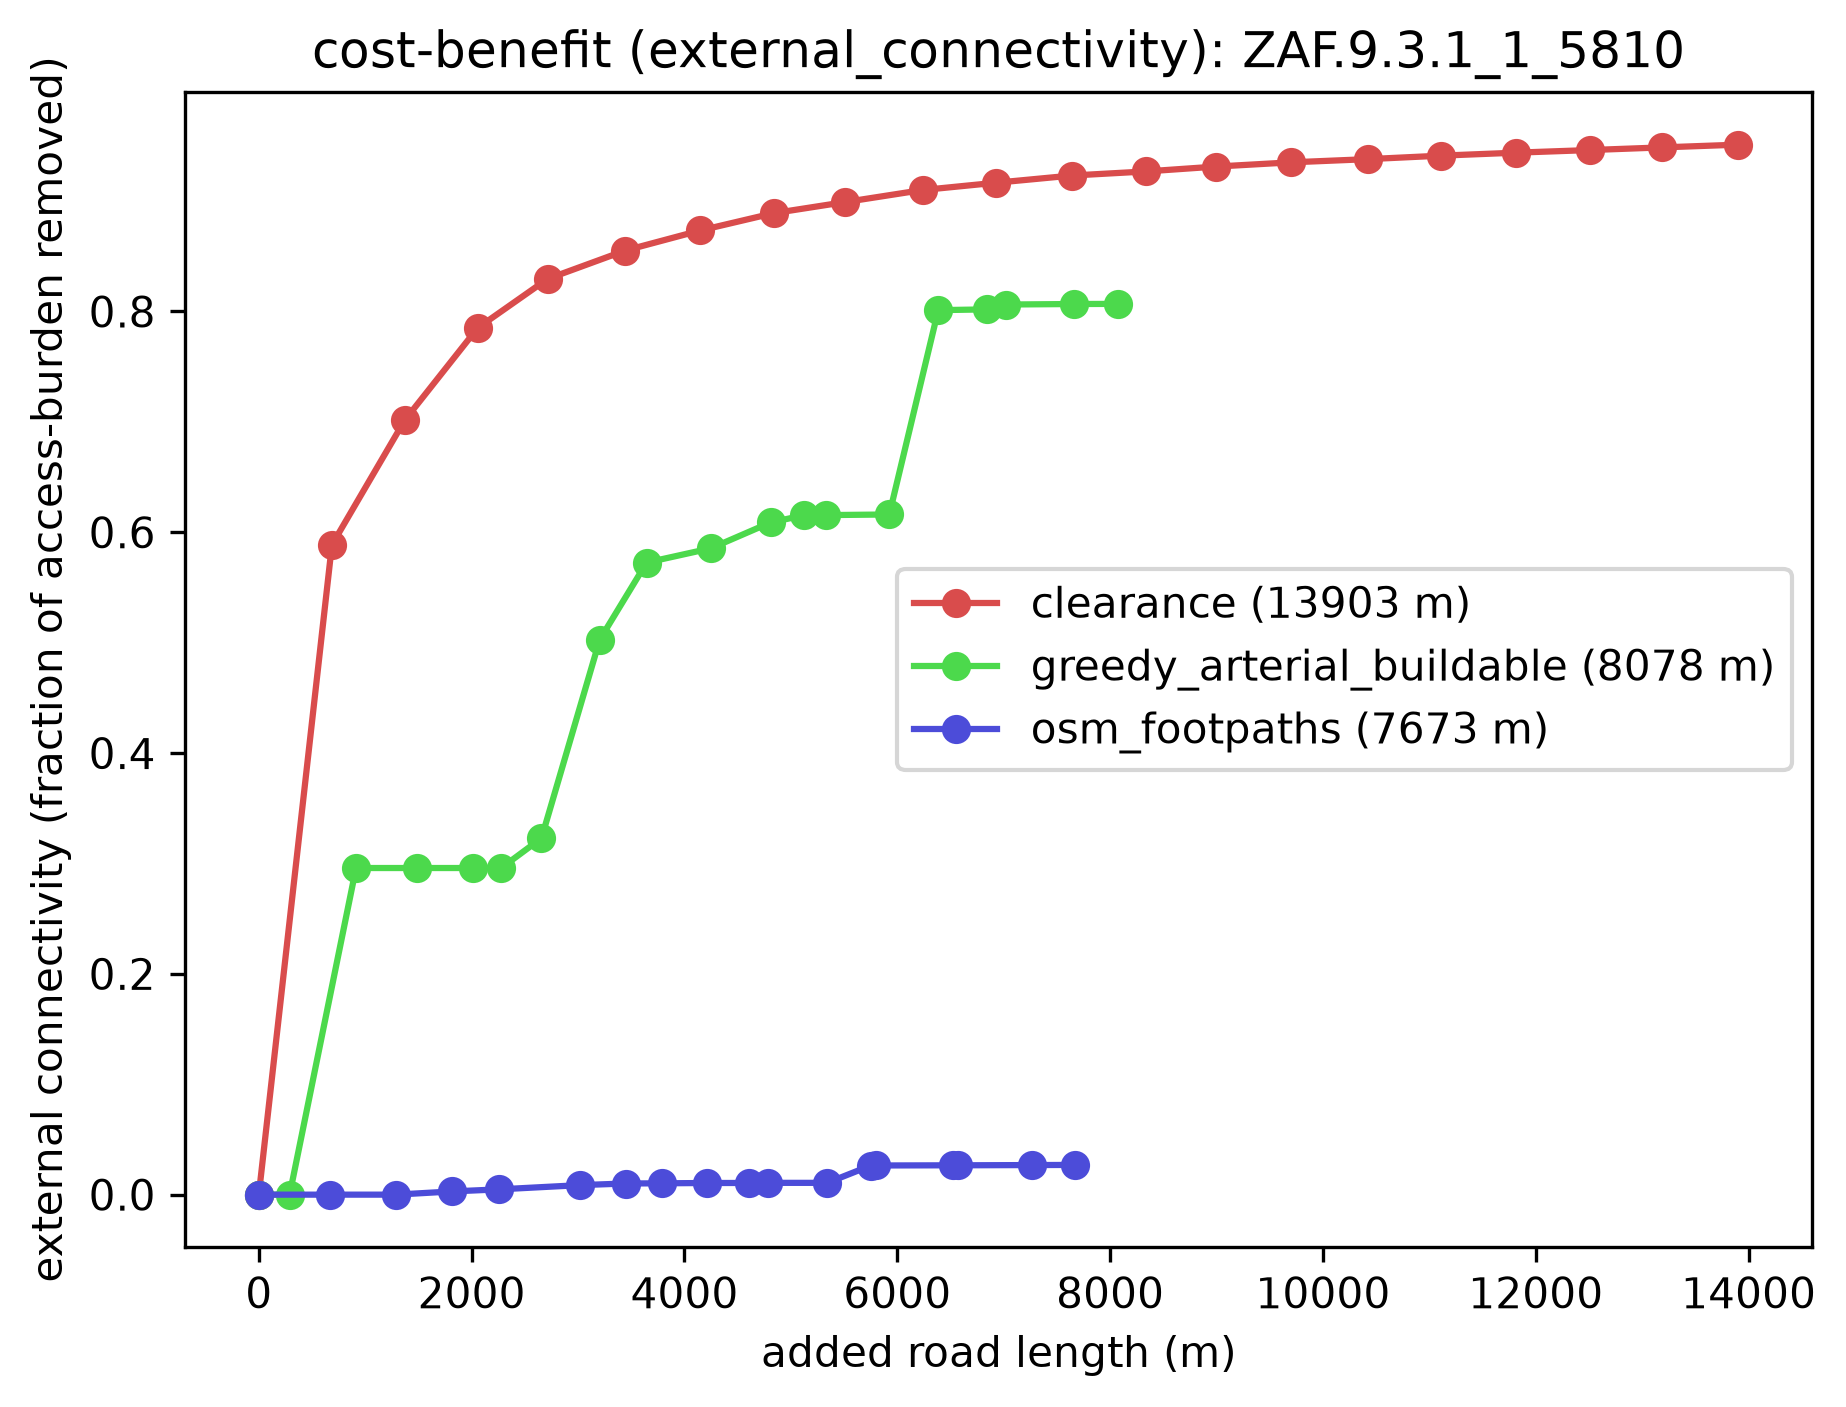
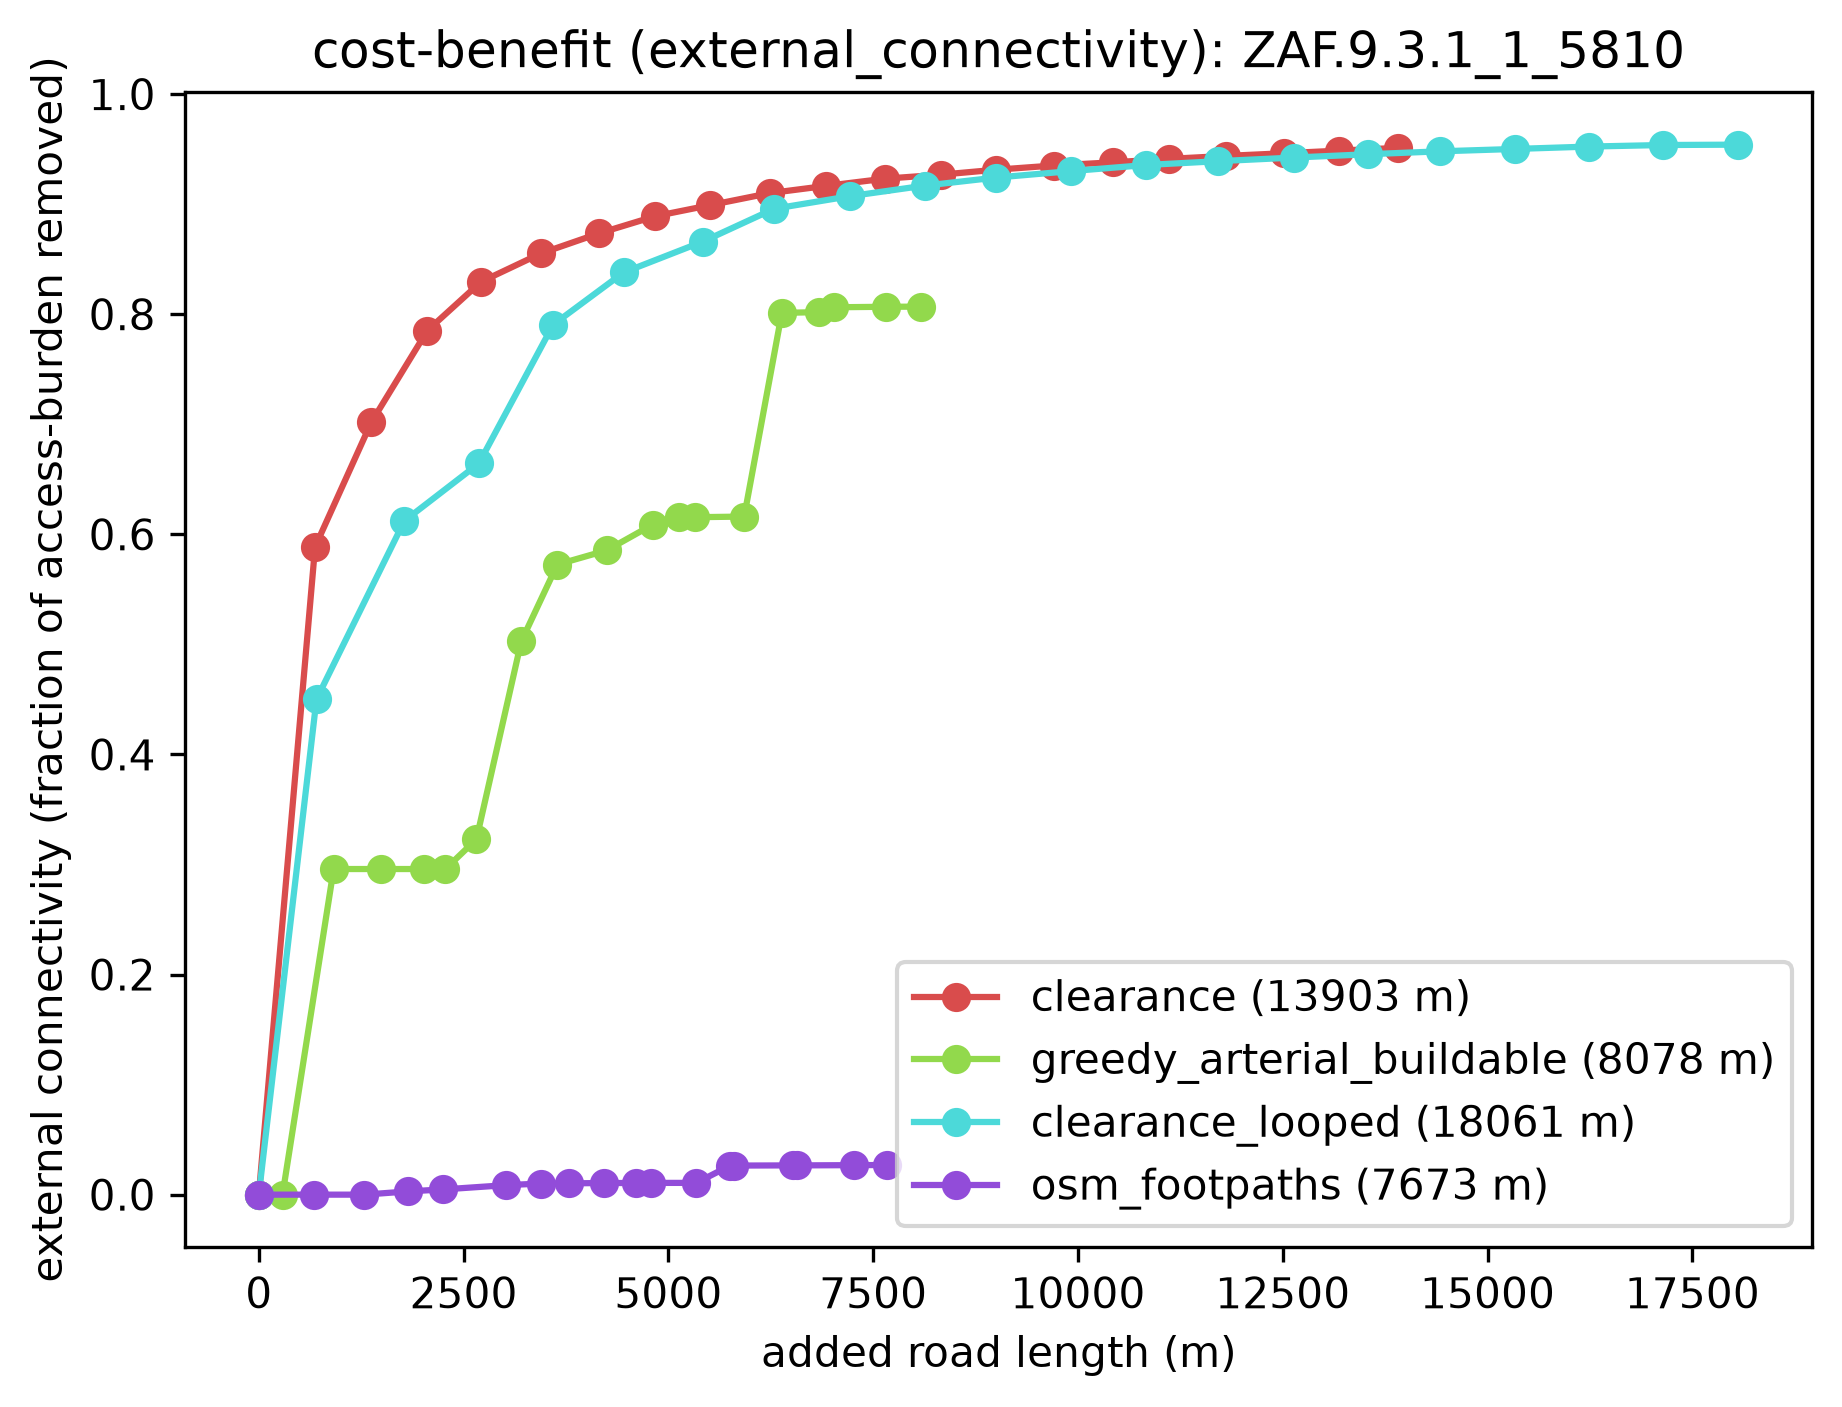
docs: regenerate depth region example with looped clearance (internal conn 0.34-0.50)
Claude-Session: https://claude.ai/code/session_0125mCca6BQaTXiLZPMyFa8x

diff --git a/examples/multiblock_depth/README.md b/examples/multiblock_depth/README.md
@@ -38,19 +38,19 @@ The same region on the same access-depth colour scale (blue = at a street, red =
 
 **Watch each method reblock** — its full road set added in drainage order, the deep interior draining as the network reaches in:
 
-| clearance | greedy_arterial_buildable | osm_footpaths |
-|---|---|---|
-| ![clearance](reblock_clearance.gif) | ![greedy_arterial_buildable](reblock_greedy_arterial_buildable.gif) | ![osm_footpaths](reblock_osm_footpaths.gif) |
+| clearance | clearance_looped | greedy_arterial_buildable | osm_footpaths |
+|---|---|---|---|
+| ![clearance](reblock_clearance.gif) | ![clearance_looped](reblock_clearance_looped.gif) | ![greedy_arterial_buildable](reblock_greedy_arterial_buildable.gif) | ![osm_footpaths](reblock_osm_footpaths.gif) |
 
 **Matched road budget** — every method truncated to the same total added road, so this compares the access each *buys for the same cost*:
 
-| clearance | greedy_arterial_buildable | osm_footpaths |
-|---|---|---|
-| ![clearance](after_clearance_matched.jpg) | ![greedy_arterial_buildable](after_greedy_arterial_buildable_matched.jpg) | ![osm_footpaths](after_osm_footpaths_matched.jpg) |
+| clearance_looped | clearance | greedy_arterial_buildable | osm_footpaths |
+|---|---|---|---|
+| ![clearance_looped](after_clearance_looped_matched.jpg) | ![clearance](after_clearance_matched.jpg) | ![greedy_arterial_buildable](after_greedy_arterial_buildable_matched.jpg) | ![osm_footpaths](after_osm_footpaths_matched.jpg) |
 
 **Matched external-connectivity target** — every method truncated where external connectivity (access-burden removed) reaches 0.70, so this compares the *road each takes* for the same outcome:
 
-| clearance | greedy_arterial_buildable | osm_footpaths |
-|---|---|---|
-| ![clearance](after_clearance_ext70.jpg) | ![greedy_arterial_buildable](after_greedy_arterial_buildable_ext70.jpg) | ![osm_footpaths](after_osm_footpaths_ext70.jpg) |
+| clearance | clearance_looped | greedy_arterial_buildable | osm_footpaths |
+|---|---|---|---|
+| ![clearance](after_clearance_ext70.jpg) | ![clearance_looped](after_clearance_looped_ext70.jpg) | ![greedy_arterial_buildable](after_greedy_arterial_buildable_ext70.jpg) | ![osm_footpaths](after_osm_footpaths_ext70.jpg) |
 
